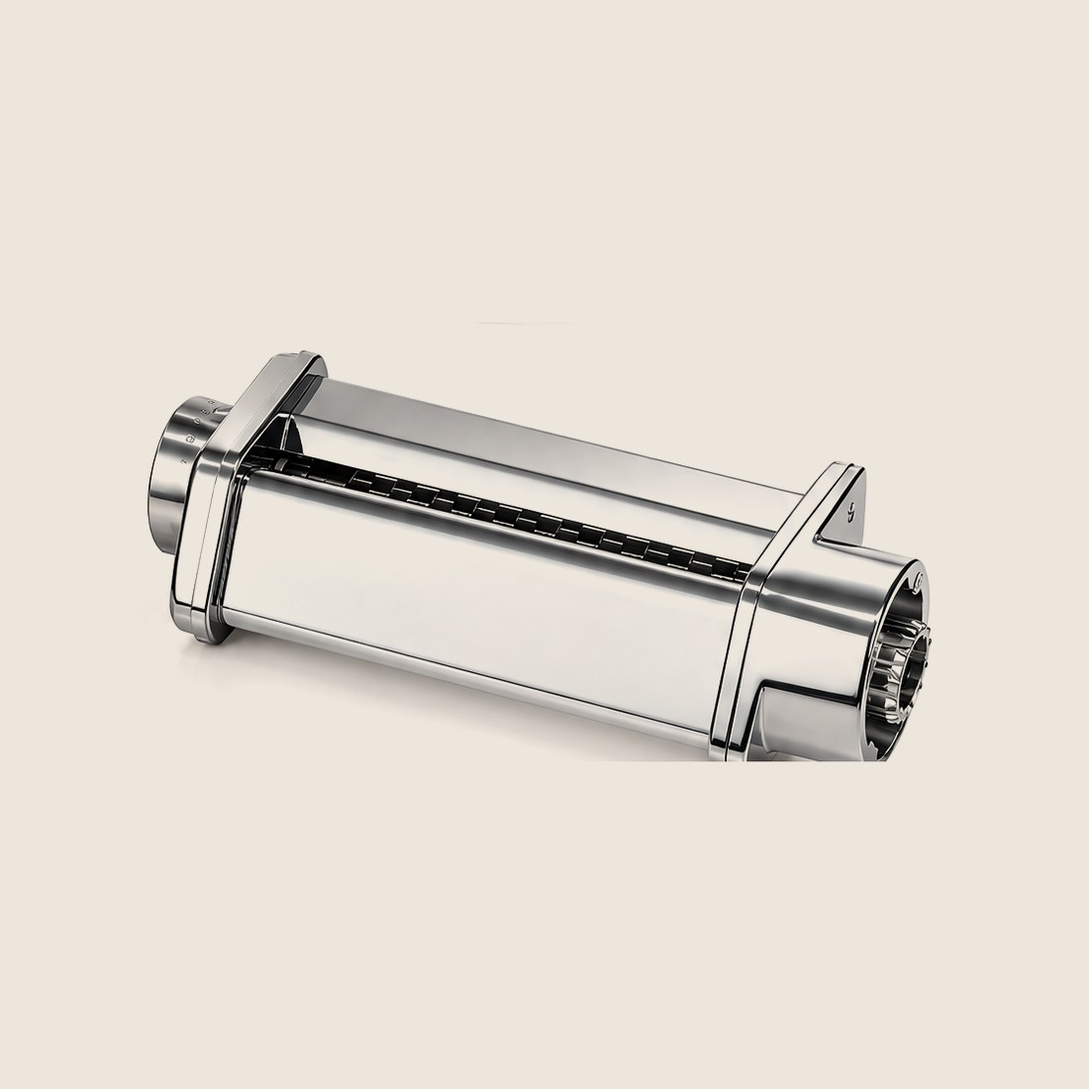
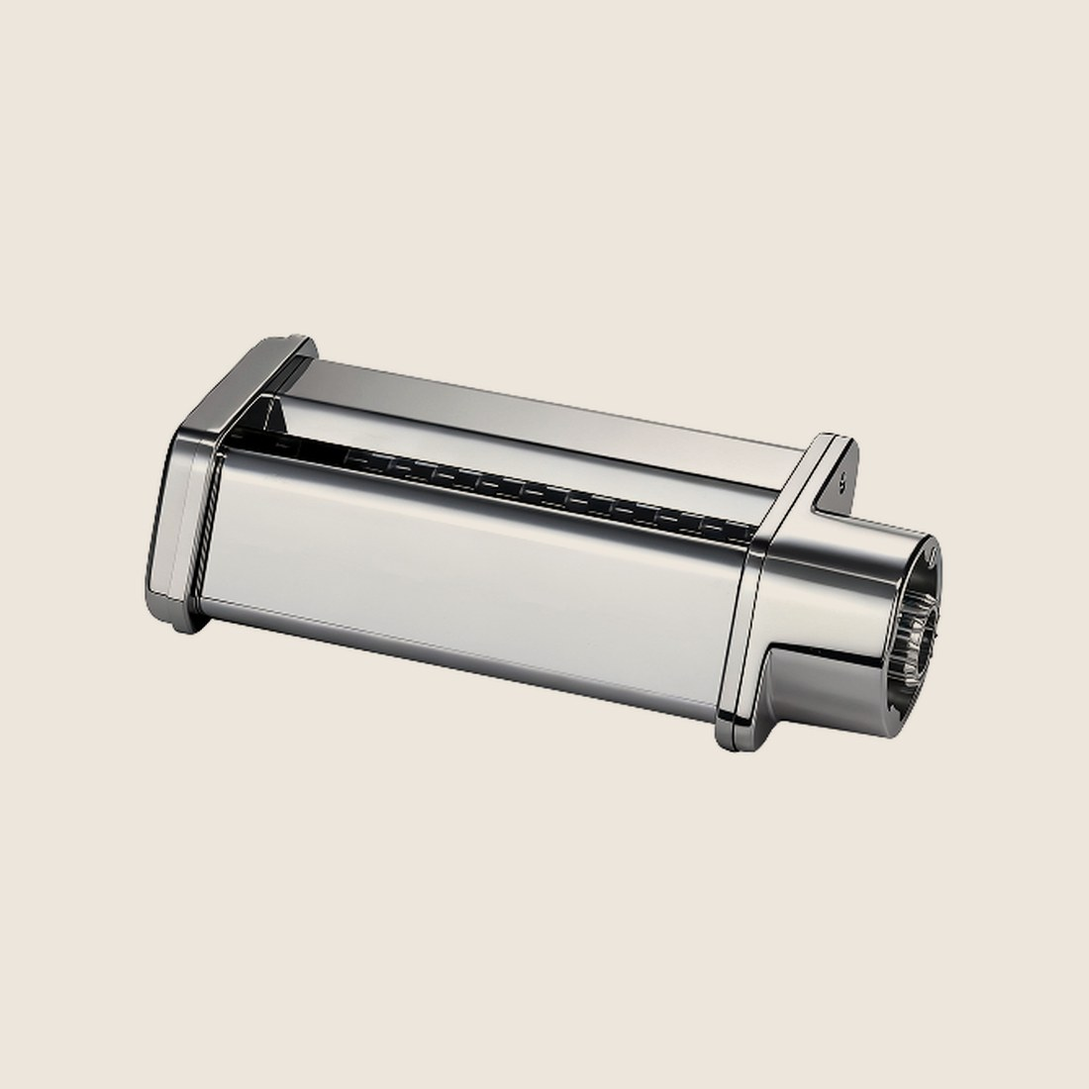
Guide: real factory photos for hook, beater, whisk, slicer, roller, noodle cutter; real machine photo as hero
Claude-Session: https://claude.ai/code/session_01LYzwHMsTzQwc44MpRiCAfd

Changed region(s): [[0.1236, 0.3091, 0.8655, 0.7109]]

diff --git a/guide/kk/sm23/index.html b/guide/kk/sm23/index.html
@@ -7,7 +7,7 @@
 <meta name="description" content="Бауырсаққа қамыр илейді, мәнтіге ет тартады, бесбармаққа жұқа қамыр жаяды, лағманға кеспе кеседі, көкөністі үгіп, смузи әзірлейді. Машинаны алғашқы күннен бастап сенімді қолдану үшін қажеттінің бәрі осында жиналған.">
 <meta property="og:title" content="ATARIA AT-SM23: нұсқаулық және рецепттер">
 <meta property="og:description" content="Бауырсаққа қамыр илейді, мәнтіге ет тартады, бесбармаққа жұқа қамыр жаяды, лағманға кеспе кеседі, көкөністі үгіп, смузи әзірлейді. Машинаны алғашқы күннен бастап сенімді қолдану үшін қажеттінің бәрі осында жиналған.">
-<meta property="og:image" content="https://ataria-guide.vercel.app/img/sm23-hero.jpg">
+<meta property="og:image" content="https://ataria-guide.vercel.app/img/machine.jpg">
 <meta property="og:type" content="website">
 <meta property="og:locale" content="kk_KZ">
 <meta name="theme-color" content="#F6F2EC">
@@ -71,7 +71,7 @@
     <p class="lead">Бауырсаққа қамыр илейді, мәнтіге ет тартады, бесбармаққа жұқа қамыр жаяды, лағманға кеспе кеседі, көкөністі үгіп, смузи әзірлейді. Машинаны алғашқы күннен бастап сенімді қолдану үшін қажеттінің бәрі осында жиналған.</p>
     <div class="actions"><a class="btn" href="/kk/sm23/start/">Қалай бастау керек</a><a class="btn ghost" href="/kk/sm23/recipes/">Рецепттер</a></div>
   </div>
-  <div class="ph"><img src="/img/sm23-hero.jpg" alt="ATARIA AT-SM23"></div>
+  <div class="ph"><img src="/img/machine.jpg" alt="ATARIA AT-SM23"></div>
 </section>
 <div class="wrap">
   <div class="specs"><div class="spec"><div class="k">Қуаты</div><div class="v">2000 Вт</div></div><div class="spec"><div class="k">Тостаған</div><div class="v">7 л, тот баспайтын болат</div></div><div class="spec"><div class="k">Жылдамдық</div><div class="v">6 + P импульстік режимі</div></div><div class="spec"><div class="k">Айналу</div><div class="v">Планетарлық</div></div><div class="spec"><div class="k">Дисплей</div><div class="v">Таймері бар LED</div></div><div class="spec"><div class="k">Қорғаныс</div><div class="v">Қызып кетуден, астында сорғыш аяқтар</div></div><div class="spec"><div class="k">Таймер</div><div class="v">15 минутқа дейін</div></div></div>
@@ -96,11 +96,11 @@
   <section class="block-section">
     <div class="sec-head"><h2>Қондырмалар</h2><a href="/kk/sm23/attachments/">Барлық қондырмалар →</a></div>
     <div class="grid"><a class="card" href="/kk/sm23/attachments/hook/">
-    <div class="ph"><svg viewBox="0 0 64 64" fill="none" stroke="currentColor" stroke-width="1.3" stroke-linecap="round"><rect x="24" y="6" width="16" height="7" rx="3"/><path d="M32 13v16c0 9 11 9 11 18 0 7-7 11-14 8"/><path d="M32 13v8"/></svg></div>
+    <div class="ph"><img src="/img/hook.jpg" alt="Қамырға арналған ілгек" loading="lazy"></div>
     <div class="body"><span class="meta">Тостағанда · жылдамдық 1–2</span><h3>Қамырға арналған ілгек</h3><span class="meta">Тығыз және ашытқылы қамырға</span></div></a><a class="card" href="/kk/sm23/attachments/beater/">
-    <div class="ph"><svg viewBox="0 0 64 64" fill="none" stroke="currentColor" stroke-width="1.3" stroke-linecap="round"><rect x="25" y="5" width="14" height="7" rx="3"/><path d="M32 12v8"/><path d="M32 20c-13 4-17 15-13 27 2 6 8 10 13 10s11-4 13-10c4-12 0-23-13-27z"/><path d="M32 30v26M32 38l-8 9M32 38l8 9"/></svg></div>
+    <div class="ph"><img src="/img/beater.jpg" alt="Көрекше" loading="lazy"></div>
     <div class="body"><span class="meta">Тостағанда · жылдамдық 1–6</span><h3>Көрекше</h3><span class="meta">Қою массалар мен пісірме қамырға</span></div></a><a class="card" href="/kk/sm23/attachments/whisk/">
-    <div class="ph"><svg viewBox="0 0 64 64" fill="none" stroke="currentColor" stroke-width="1.3" stroke-linecap="round"><rect x="26" y="4" width="12" height="9" rx="3"/><path d="M32 13v7"/><path d="M32 20c-15 5-17 28 0 38 17-10 15-33 0-38z"/><path d="M32 20c-7 9-7 29 0 38M32 20c7 9 7 29 0 38M19 33h26M18 45h28"/></svg></div>
+    <div class="ph"><img src="/img/whisk.jpg" alt="Венчик (көпіршіткіш)" loading="lazy"></div>
     <div class="body"><span class="meta">Тостағанда · жылдамдық 1–6</span><h3>Венчик (көпіршіткіш)</h3><span class="meta">Ауалы массаларға</span></div></a><a class="card" href="/kk/sm23/attachments/grinder/">
     <div class="ph"><img src="/img/grinder.jpg" alt="Ет тартқыш" loading="lazy"></div>
     <div class="body"><span class="meta">Бүйір жағында · жылдамдық 1–6</span><h3>Ет тартқыш</h3><span class="meta">Қайма, шұжық және кеббе</span></div></a></div>

diff --git a/guide/sm23/index.html b/guide/sm23/index.html
@@ -7,7 +7,7 @@
 <meta name="description" content="Замесит тесто на баурсаки, прокрутит фарш на манты, раскатает тонкий пласт для беша, нарежет лапшу к лагману, натрёт овощи и сделает смузи. Здесь собрано всё, чтобы вы пользовались ею с первого дня спокойно и уверенно.">
 <meta property="og:title" content="ATARIA AT-SM23: инструкция и рецепты">
 <meta property="og:description" content="Замесит тесто на баурсаки, прокрутит фарш на манты, раскатает тонкий пласт для беша, нарежет лапшу к лагману, натрёт овощи и сделает смузи. Здесь собрано всё, чтобы вы пользовались ею с первого дня спокойно и уверенно.">
-<meta property="og:image" content="https://ataria-guide.vercel.app/img/sm23-hero.jpg">
+<meta property="og:image" content="https://ataria-guide.vercel.app/img/machine.jpg">
 <meta property="og:type" content="website">
 <meta property="og:locale" content="ru_RU">
 <meta name="theme-color" content="#F6F2EC">
@@ -71,7 +71,7 @@
     <p class="lead">Замесит тесто на баурсаки, прокрутит фарш на манты, раскатает тонкий пласт для беша, нарежет лапшу к лагману, натрёт овощи и сделает смузи. Здесь собрано всё, чтобы вы пользовались ею с первого дня спокойно и уверенно.</p>
     <div class="actions"><a class="btn" href="/sm23/start/">С чего начать</a><a class="btn ghost" href="/sm23/recipes/">Рецепты</a></div>
   </div>
-  <div class="ph"><img src="/img/sm23-hero.jpg" alt="ATARIA AT-SM23"></div>
+  <div class="ph"><img src="/img/machine.jpg" alt="ATARIA AT-SM23"></div>
 </section>
 <div class="wrap">
   <div class="specs"><div class="spec"><div class="k">Мощность</div><div class="v">2000 Вт</div></div><div class="spec"><div class="k">Чаша</div><div class="v">7 л, нержавеющая сталь</div></div><div class="spec"><div class="k">Скорости</div><div class="v">6 + импульсный режим P</div></div><div class="spec"><div class="k">Вращение</div><div class="v">Планетарное</div></div><div class="spec"><div class="k">Дисплей</div><div class="v">LED с таймером</div></div><div class="spec"><div class="k">Защита</div><div class="v">От перегрева, присоски снизу</div></div><div class="spec"><div class="k">Таймер</div><div class="v">до 15 минут</div></div></div>
@@ -96,11 +96,11 @@
   <section class="block-section">
     <div class="sec-head"><h2>Насадки</h2><a href="/sm23/attachments/">Все насадки →</a></div>
     <div class="grid"><a class="card" href="/sm23/attachments/hook/">
-    <div class="ph"><svg viewBox="0 0 64 64" fill="none" stroke="currentColor" stroke-width="1.3" stroke-linecap="round"><rect x="24" y="6" width="16" height="7" rx="3"/><path d="M32 13v16c0 9 11 9 11 18 0 7-7 11-14 8"/><path d="M32 13v8"/></svg></div>
+    <div class="ph"><img src="/img/hook.jpg" alt="Крюк для теста" loading="lazy"></div>
     <div class="body"><span class="meta">В чаше · скорость 1–2</span><h3>Крюк для теста</h3><span class="meta">Для плотного и дрожжевого теста</span></div></a><a class="card" href="/sm23/attachments/beater/">
-    <div class="ph"><svg viewBox="0 0 64 64" fill="none" stroke="currentColor" stroke-width="1.3" stroke-linecap="round"><rect x="25" y="5" width="14" height="7" rx="3"/><path d="M32 12v8"/><path d="M32 20c-13 4-17 15-13 27 2 6 8 10 13 10s11-4 13-10c4-12 0-23-13-27z"/><path d="M32 30v26M32 38l-8 9M32 38l8 9"/></svg></div>
+    <div class="ph"><img src="/img/beater.jpg" alt="Лопатка" loading="lazy"></div>
     <div class="body"><span class="meta">В чаше · скорость 1–6</span><h3>Лопатка</h3><span class="meta">Для густых масс и теста для выпечки</span></div></a><a class="card" href="/sm23/attachments/whisk/">
-    <div class="ph"><svg viewBox="0 0 64 64" fill="none" stroke="currentColor" stroke-width="1.3" stroke-linecap="round"><rect x="26" y="4" width="12" height="9" rx="3"/><path d="M32 13v7"/><path d="M32 20c-15 5-17 28 0 38 17-10 15-33 0-38z"/><path d="M32 20c-7 9-7 29 0 38M32 20c7 9 7 29 0 38M19 33h26M18 45h28"/></svg></div>
+    <div class="ph"><img src="/img/whisk.jpg" alt="Венчик" loading="lazy"></div>
     <div class="body"><span class="meta">В чаше · скорость 1–6</span><h3>Венчик</h3><span class="meta">Для воздушных масс</span></div></a><a class="card" href="/sm23/attachments/grinder/">
     <div class="ph"><img src="/img/grinder.jpg" alt="Мясорубка" loading="lazy"></div>
     <div class="body"><span class="meta">Сбоку · скорость 1–6</span><h3>Мясорубка</h3><span class="meta">Фарш, колбаски и кеббе</span></div></a></div>

diff --git a/guide/kk/sm23/attachments/index.html b/guide/kk/sm23/attachments/index.html
@@ -68,11 +68,11 @@
     
       <div class="page-head"><p class="eyebrow">ATARIA AT-SM23</p><h1>Қондырмалар</h1><p class="lead">Тостағанда илейміз және көпіршітеміз. Бүйір жағында тартамыз, үгеміз, жаямыз және кесеміз. Үстінде — блендер.</p></div>
       <section class="grp"><p class="eyebrow">Тостағанда</p><div class="grid"><a class="card" href="/kk/sm23/attachments/hook/">
-    <div class="ph"><svg viewBox="0 0 64 64" fill="none" stroke="currentColor" stroke-width="1.3" stroke-linecap="round"><rect x="24" y="6" width="16" height="7" rx="3"/><path d="M32 13v16c0 9 11 9 11 18 0 7-7 11-14 8"/><path d="M32 13v8"/></svg></div>
+    <div class="ph"><img src="/img/hook.jpg" alt="Қамырға арналған ілгек" loading="lazy"></div>
     <div class="body"><span class="meta">Тостағанда · жылдамдық 1–2</span><h3>Қамырға арналған ілгек</h3><span class="meta">Тығыз және ашытқылы қамырға</span></div></a><a class="card" href="/kk/sm23/attachments/beater/">
-    <div class="ph"><svg viewBox="0 0 64 64" fill="none" stroke="currentColor" stroke-width="1.3" stroke-linecap="round"><rect x="25" y="5" width="14" height="7" rx="3"/><path d="M32 12v8"/><path d="M32 20c-13 4-17 15-13 27 2 6 8 10 13 10s11-4 13-10c4-12 0-23-13-27z"/><path d="M32 30v26M32 38l-8 9M32 38l8 9"/></svg></div>
+    <div class="ph"><img src="/img/beater.jpg" alt="Көрекше" loading="lazy"></div>
     <div class="body"><span class="meta">Тостағанда · жылдамдық 1–6</span><h3>Көрекше</h3><span class="meta">Қою массалар мен пісірме қамырға</span></div></a><a class="card" href="/kk/sm23/attachments/whisk/">
-    <div class="ph"><svg viewBox="0 0 64 64" fill="none" stroke="currentColor" stroke-width="1.3" stroke-linecap="round"><rect x="26" y="4" width="12" height="9" rx="3"/><path d="M32 13v7"/><path d="M32 20c-15 5-17 28 0 38 17-10 15-33 0-38z"/><path d="M32 20c-7 9-7 29 0 38M32 20c7 9 7 29 0 38M19 33h26M18 45h28"/></svg></div>
+    <div class="ph"><img src="/img/whisk.jpg" alt="Венчик (көпіршіткіш)" loading="lazy"></div>
     <div class="body"><span class="meta">Тостағанда · жылдамдық 1–6</span><h3>Венчик (көпіршіткіш)</h3><span class="meta">Ауалы массаларға</span></div></a></div></section><section class="grp"><p class="eyebrow">Бүйір жағында</p><div class="grid"><a class="card" href="/kk/sm23/attachments/grinder/">
     <div class="ph"><img src="/img/grinder.jpg" alt="Ет тартқыш" loading="lazy"></div>
     <div class="body"><span class="meta">Бүйір жағында · жылдамдық 1–6</span><h3>Ет тартқыш</h3><span class="meta">Қайма, шұжық және кеббе</span></div></a><a class="card" href="/kk/sm23/attachments/slicer/">

diff --git a/guide/sm23/attachments/index.html b/guide/sm23/attachments/index.html
@@ -68,11 +68,11 @@
     
       <div class="page-head"><p class="eyebrow">ATARIA AT-SM23</p><h1>Насадки</h1><p class="lead">В чаше месим и взбиваем. Сбоку крутим, трём, раскатываем и режем. Сверху блендер.</p></div>
       <section class="grp"><p class="eyebrow">В чаше</p><div class="grid"><a class="card" href="/sm23/attachments/hook/">
-    <div class="ph"><svg viewBox="0 0 64 64" fill="none" stroke="currentColor" stroke-width="1.3" stroke-linecap="round"><rect x="24" y="6" width="16" height="7" rx="3"/><path d="M32 13v16c0 9 11 9 11 18 0 7-7 11-14 8"/><path d="M32 13v8"/></svg></div>
+    <div class="ph"><img src="/img/hook.jpg" alt="Крюк для теста" loading="lazy"></div>
     <div class="body"><span class="meta">В чаше · скорость 1–2</span><h3>Крюк для теста</h3><span class="meta">Для плотного и дрожжевого теста</span></div></a><a class="card" href="/sm23/attachments/beater/">
-    <div class="ph"><svg viewBox="0 0 64 64" fill="none" stroke="currentColor" stroke-width="1.3" stroke-linecap="round"><rect x="25" y="5" width="14" height="7" rx="3"/><path d="M32 12v8"/><path d="M32 20c-13 4-17 15-13 27 2 6 8 10 13 10s11-4 13-10c4-12 0-23-13-27z"/><path d="M32 30v26M32 38l-8 9M32 38l8 9"/></svg></div>
+    <div class="ph"><img src="/img/beater.jpg" alt="Лопатка" loading="lazy"></div>
     <div class="body"><span class="meta">В чаше · скорость 1–6</span><h3>Лопатка</h3><span class="meta">Для густых масс и теста для выпечки</span></div></a><a class="card" href="/sm23/attachments/whisk/">
-    <div class="ph"><svg viewBox="0 0 64 64" fill="none" stroke="currentColor" stroke-width="1.3" stroke-linecap="round"><rect x="26" y="4" width="12" height="9" rx="3"/><path d="M32 13v7"/><path d="M32 20c-15 5-17 28 0 38 17-10 15-33 0-38z"/><path d="M32 20c-7 9-7 29 0 38M32 20c7 9 7 29 0 38M19 33h26M18 45h28"/></svg></div>
+    <div class="ph"><img src="/img/whisk.jpg" alt="Венчик" loading="lazy"></div>
     <div class="body"><span class="meta">В чаше · скорость 1–6</span><h3>Венчик</h3><span class="meta">Для воздушных масс</span></div></a></div></section><section class="grp"><p class="eyebrow">Сбоку</p><div class="grid"><a class="card" href="/sm23/attachments/grinder/">
     <div class="ph"><img src="/img/grinder.jpg" alt="Мясорубка" loading="lazy"></div>
     <div class="body"><span class="meta">Сбоку · скорость 1–6</span><h3>Мясорубка</h3><span class="meta">Фарш, колбаски и кеббе</span></div></a><a class="card" href="/sm23/attachments/slicer/">

diff --git a/guide/kk/sm23/attachments/whisk/index.html b/guide/kk/sm23/attachments/whisk/index.html
@@ -7,7 +7,7 @@
 <meta name="description" content="Венчик массаны ауамен байытады. Кілегей көбік болып көтеріледі, ақуыз қатты шыңдарға дейін көпіршиді.">
 <meta property="og:title" content="Венчик (көпіршіткіш) · ATARIA">
 <meta property="og:description" content="Венчик массаны ауамен байытады. Кілегей көбік болып көтеріледі, ақуыз қатты шыңдарға дейін көпіршиді.">
-<meta property="og:image" content="https://ataria-guide.vercel.app/img/sm23-hero.jpg">
+<meta property="og:image" content="https://ataria-guide.vercel.app/img/whisk.jpg">
 <meta property="og:type" content="website">
 <meta property="og:locale" content="kk_KZ">
 <meta name="theme-color" content="#F6F2EC">
@@ -67,7 +67,7 @@
     <nav class="tabs" aria-label="Бөлімдер"><a href="/kk/sm23/" class="">Шолу</a><a href="/kk/sm23/start/" class="">Қалай бастау керек</a><a href="/kk/sm23/speeds/" class="">Жылдамдықтар</a><a href="/kk/sm23/attachments/" class="on">Қондырмалар</a><a href="/kk/sm23/recipes/" class="">Рецепттер</a><a href="/kk/sm23/care/" class="">Күтім</a><a href="/kk/sm23/help/" class="">Көмек</a></nav>
     
         <div class="split top">
-          <div class="ph sticky"><svg viewBox="0 0 64 64" fill="none" stroke="currentColor" stroke-width="1.3" stroke-linecap="round"><rect x="26" y="4" width="12" height="9" rx="3"/><path d="M32 13v7"/><path d="M32 20c-15 5-17 28 0 38 17-10 15-33 0-38z"/><path d="M32 20c-7 9-7 29 0 38M32 20c7 9 7 29 0 38M19 33h26M18 45h28"/></svg></div>
+          <div class="ph sticky"><img src="/img/whisk.jpg" alt="Венчик (көпіршіткіш)" loading="lazy"></div>
           <div>
             <p class="eyebrow">Тостағанда</p><h1>Венчик (көпіршіткіш)</h1><div class="rule"></div>
             <p class="lead">Венчик массаны ауамен байытады. Кілегей көбік болып көтеріледі, ақуыз қатты шыңдарға дейін көпіршиді.</p>

diff --git a/guide/kk/sm23/attachments/beater/index.html b/guide/kk/sm23/attachments/beater/index.html
@@ -7,7 +7,7 @@
 <meta name="description" content="Жалпақ көрекше қою әрі ауыр массаларды араластырады. Ол ауа қоспайды, тостағандағының бәрін біркелкі біріктіреді.">
 <meta property="og:title" content="Көрекше · ATARIA">
 <meta property="og:description" content="Жалпақ көрекше қою әрі ауыр массаларды араластырады. Ол ауа қоспайды, тостағандағының бәрін біркелкі біріктіреді.">
-<meta property="og:image" content="https://ataria-guide.vercel.app/img/sm23-hero.jpg">
+<meta property="og:image" content="https://ataria-guide.vercel.app/img/beater.jpg">
 <meta property="og:type" content="website">
 <meta property="og:locale" content="kk_KZ">
 <meta name="theme-color" content="#F6F2EC">
@@ -67,7 +67,7 @@
     <nav class="tabs" aria-label="Бөлімдер"><a href="/kk/sm23/" class="">Шолу</a><a href="/kk/sm23/start/" class="">Қалай бастау керек</a><a href="/kk/sm23/speeds/" class="">Жылдамдықтар</a><a href="/kk/sm23/attachments/" class="on">Қондырмалар</a><a href="/kk/sm23/recipes/" class="">Рецепттер</a><a href="/kk/sm23/care/" class="">Күтім</a><a href="/kk/sm23/help/" class="">Көмек</a></nav>
     
         <div class="split top">
-          <div class="ph sticky"><svg viewBox="0 0 64 64" fill="none" stroke="currentColor" stroke-width="1.3" stroke-linecap="round"><rect x="25" y="5" width="14" height="7" rx="3"/><path d="M32 12v8"/><path d="M32 20c-13 4-17 15-13 27 2 6 8 10 13 10s11-4 13-10c4-12 0-23-13-27z"/><path d="M32 30v26M32 38l-8 9M32 38l8 9"/></svg></div>
+          <div class="ph sticky"><img src="/img/beater.jpg" alt="Көрекше" loading="lazy"></div>
           <div>
             <p class="eyebrow">Тостағанда</p><h1>Көрекше</h1><div class="rule"></div>
             <p class="lead">Жалпақ көрекше қою әрі ауыр массаларды араластырады. Ол ауа қоспайды, тостағандағының бәрін біркелкі біріктіреді.</p>

diff --git a/guide/sm23/attachments/hook/index.html b/guide/sm23/attachments/hook/index.html
@@ -7,7 +7,7 @@
 <meta name="description" content="Крюк месит тесто так, как это делают руки, только без усталости. Тесто получается гладким и эластичным, а руки остаются чистыми.">
 <meta property="og:title" content="Крюк для теста · ATARIA">
 <meta property="og:description" content="Крюк месит тесто так, как это делают руки, только без усталости. Тесто получается гладким и эластичным, а руки остаются чистыми.">
-<meta property="og:image" content="https://ataria-guide.vercel.app/img/sm23-hero.jpg">
+<meta property="og:image" content="https://ataria-guide.vercel.app/img/hook.jpg">
 <meta property="og:type" content="website">
 <meta property="og:locale" content="ru_RU">
 <meta name="theme-color" content="#F6F2EC">
@@ -67,7 +67,7 @@
     <nav class="tabs" aria-label="Разделы"><a href="/sm23/" class="">Обзор</a><a href="/sm23/start/" class="">С чего начать</a><a href="/sm23/speeds/" class="">Скорости</a><a href="/sm23/attachments/" class="on">Насадки</a><a href="/sm23/recipes/" class="">Рецепты</a><a href="/sm23/care/" class="">Уход</a><a href="/sm23/help/" class="">Помощь</a></nav>
     
         <div class="split top">
-          <div class="ph sticky"><svg viewBox="0 0 64 64" fill="none" stroke="currentColor" stroke-width="1.3" stroke-linecap="round"><rect x="24" y="6" width="16" height="7" rx="3"/><path d="M32 13v16c0 9 11 9 11 18 0 7-7 11-14 8"/><path d="M32 13v8"/></svg></div>
+          <div class="ph sticky"><img src="/img/hook.jpg" alt="Крюк для теста" loading="lazy"></div>
           <div>
             <p class="eyebrow">В чаше</p><h1>Крюк для теста</h1><div class="rule"></div>
             <p class="lead">Крюк месит тесто так, как это делают руки, только без усталости. Тесто получается гладким и эластичным, а руки остаются чистыми.</p>

diff --git a/guide/kk/sm23/attachments/hook/index.html b/guide/kk/sm23/attachments/hook/index.html
@@ -7,7 +7,7 @@
 <meta name="description" content="Ілгек қамырды қол сияқты илейді, бірақ шаршамайды. Қамыр тегіс әрі серпімді болады, ал қолыңыз таза қалады.">
 <meta property="og:title" content="Қамырға арналған ілгек · ATARIA">
 <meta property="og:description" content="Ілгек қамырды қол сияқты илейді, бірақ шаршамайды. Қамыр тегіс әрі серпімді болады, ал қолыңыз таза қалады.">
-<meta property="og:image" content="https://ataria-guide.vercel.app/img/sm23-hero.jpg">
+<meta property="og:image" content="https://ataria-guide.vercel.app/img/hook.jpg">
 <meta property="og:type" content="website">
 <meta property="og:locale" content="kk_KZ">
 <meta name="theme-color" content="#F6F2EC">
@@ -67,7 +67,7 @@
     <nav class="tabs" aria-label="Бөлімдер"><a href="/kk/sm23/" class="">Шолу</a><a href="/kk/sm23/start/" class="">Қалай бастау керек</a><a href="/kk/sm23/speeds/" class="">Жылдамдықтар</a><a href="/kk/sm23/attachments/" class="on">Қондырмалар</a><a href="/kk/sm23/recipes/" class="">Рецепттер</a><a href="/kk/sm23/care/" class="">Күтім</a><a href="/kk/sm23/help/" class="">Көмек</a></nav>
     
         <div class="split top">
-          <div class="ph sticky"><svg viewBox="0 0 64 64" fill="none" stroke="currentColor" stroke-width="1.3" stroke-linecap="round"><rect x="24" y="6" width="16" height="7" rx="3"/><path d="M32 13v16c0 9 11 9 11 18 0 7-7 11-14 8"/><path d="M32 13v8"/></svg></div>
+          <div class="ph sticky"><img src="/img/hook.jpg" alt="Қамырға арналған ілгек" loading="lazy"></div>
           <div>
             <p class="eyebrow">Тостағанда</p><h1>Қамырға арналған ілгек</h1><div class="rule"></div>
             <p class="lead">Ілгек қамырды қол сияқты илейді, бірақ шаршамайды. Қамыр тегіс әрі серпімді болады, ал қолыңыз таза қалады.</p>

diff --git a/guide/sm23/attachments/beater/index.html b/guide/sm23/attachments/beater/index.html
@@ -7,7 +7,7 @@
 <meta name="description" content="Плоская лопатка перемешивает густые и тяжёлые массы. Она не взбивает воздух, а равномерно соединяет всё в чаше.">
 <meta property="og:title" content="Лопатка · ATARIA">
 <meta property="og:description" content="Плоская лопатка перемешивает густые и тяжёлые массы. Она не взбивает воздух, а равномерно соединяет всё в чаше.">
-<meta property="og:image" content="https://ataria-guide.vercel.app/img/sm23-hero.jpg">
+<meta property="og:image" content="https://ataria-guide.vercel.app/img/beater.jpg">
 <meta property="og:type" content="website">
 <meta property="og:locale" content="ru_RU">
 <meta name="theme-color" content="#F6F2EC">
@@ -67,7 +67,7 @@
     <nav class="tabs" aria-label="Разделы"><a href="/sm23/" class="">Обзор</a><a href="/sm23/start/" class="">С чего начать</a><a href="/sm23/speeds/" class="">Скорости</a><a href="/sm23/attachments/" class="on">Насадки</a><a href="/sm23/recipes/" class="">Рецепты</a><a href="/sm23/care/" class="">Уход</a><a href="/sm23/help/" class="">Помощь</a></nav>
     
         <div class="split top">
-          <div class="ph sticky"><svg viewBox="0 0 64 64" fill="none" stroke="currentColor" stroke-width="1.3" stroke-linecap="round"><rect x="25" y="5" width="14" height="7" rx="3"/><path d="M32 12v8"/><path d="M32 20c-13 4-17 15-13 27 2 6 8 10 13 10s11-4 13-10c4-12 0-23-13-27z"/><path d="M32 30v26M32 38l-8 9M32 38l8 9"/></svg></div>
+          <div class="ph sticky"><img src="/img/beater.jpg" alt="Лопатка" loading="lazy"></div>
           <div>
             <p class="eyebrow">В чаше</p><h1>Лопатка</h1><div class="rule"></div>
             <p class="lead">Плоская лопатка перемешивает густые и тяжёлые массы. Она не взбивает воздух, а равномерно соединяет всё в чаше.</p>

diff --git a/guide/sm23/attachments/whisk/index.html b/guide/sm23/attachments/whisk/index.html
@@ -7,7 +7,7 @@
 <meta name="description" content="Венчик насыщает массу воздухом. Сливки становятся пышными, белки поднимаются в крепкие пики.">
 <meta property="og:title" content="Венчик · ATARIA">
 <meta property="og:description" content="Венчик насыщает массу воздухом. Сливки становятся пышными, белки поднимаются в крепкие пики.">
-<meta property="og:image" content="https://ataria-guide.vercel.app/img/sm23-hero.jpg">
+<meta property="og:image" content="https://ataria-guide.vercel.app/img/whisk.jpg">
 <meta property="og:type" content="website">
 <meta property="og:locale" content="ru_RU">
 <meta name="theme-color" content="#F6F2EC">
@@ -67,7 +67,7 @@
     <nav class="tabs" aria-label="Разделы"><a href="/sm23/" class="">Обзор</a><a href="/sm23/start/" class="">С чего начать</a><a href="/sm23/speeds/" class="">Скорости</a><a href="/sm23/attachments/" class="on">Насадки</a><a href="/sm23/recipes/" class="">Рецепты</a><a href="/sm23/care/" class="">Уход</a><a href="/sm23/help/" class="">Помощь</a></nav>
     
         <div class="split top">
-          <div class="ph sticky"><svg viewBox="0 0 64 64" fill="none" stroke="currentColor" stroke-width="1.3" stroke-linecap="round"><rect x="26" y="4" width="12" height="9" rx="3"/><path d="M32 13v7"/><path d="M32 20c-15 5-17 28 0 38 17-10 15-33 0-38z"/><path d="M32 20c-7 9-7 29 0 38M32 20c7 9 7 29 0 38M19 33h26M18 45h28"/></svg></div>
+          <div class="ph sticky"><img src="/img/whisk.jpg" alt="Венчик" loading="lazy"></div>
           <div>
             <p class="eyebrow">В чаше</p><h1>Венчик</h1><div class="rule"></div>
             <p class="lead">Венчик насыщает массу воздухом. Сливки становятся пышными, белки поднимаются в крепкие пики.</p>

diff --git a/guide/kk/index.html b/guide/kk/index.html
@@ -86,7 +86,7 @@
   <div class="sec-head"><h2>Сіздің техникаңыз</h2></div>
   <div class="pick">
     <a class="pick-card" href="/kk/sm23/">
-      <div class="ph"><img src="/img/sm23-hero.jpg" alt="ATARIA AT-SM23"></div>
+      <div class="ph"><img src="/img/machine.jpg" alt="ATARIA AT-SM23"></div>
       <div class="body"><p class="eyebrow">Асүй комбайны</p><h3>ATARIA AT-SM23</h3><p class="lead sm">Асүйдегі алты құрылғының орнына бір машина</p><span class="more">Нұсқаулықты ашу →</span></div>
     </a>
     <a class="pick-card soon" href="/kk/airfryer/">

diff --git a/guide/index.html b/guide/index.html
@@ -86,7 +86,7 @@
   <div class="sec-head"><h2>Ваша техника</h2></div>
   <div class="pick">
     <a class="pick-card" href="/sm23/">
-      <div class="ph"><img src="/img/sm23-hero.jpg" alt="ATARIA AT-SM23"></div>
+      <div class="ph"><img src="/img/machine.jpg" alt="ATARIA AT-SM23"></div>
       <div class="body"><p class="eyebrow">Кухонная машина</p><h3>ATARIA AT-SM23</h3><p class="lead sm">Одна машина вместо шести приборов на кухне</p><span class="more">Открыть инструкцию →</span></div>
     </a>
     <a class="pick-card soon" href="/airfryer/">
